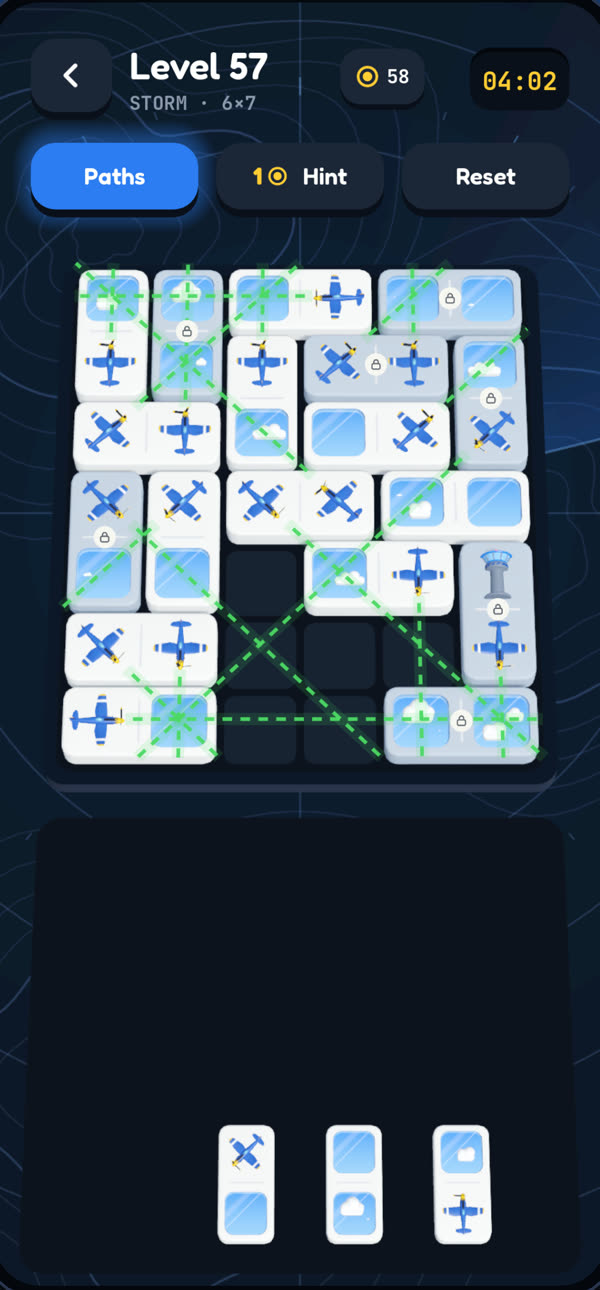
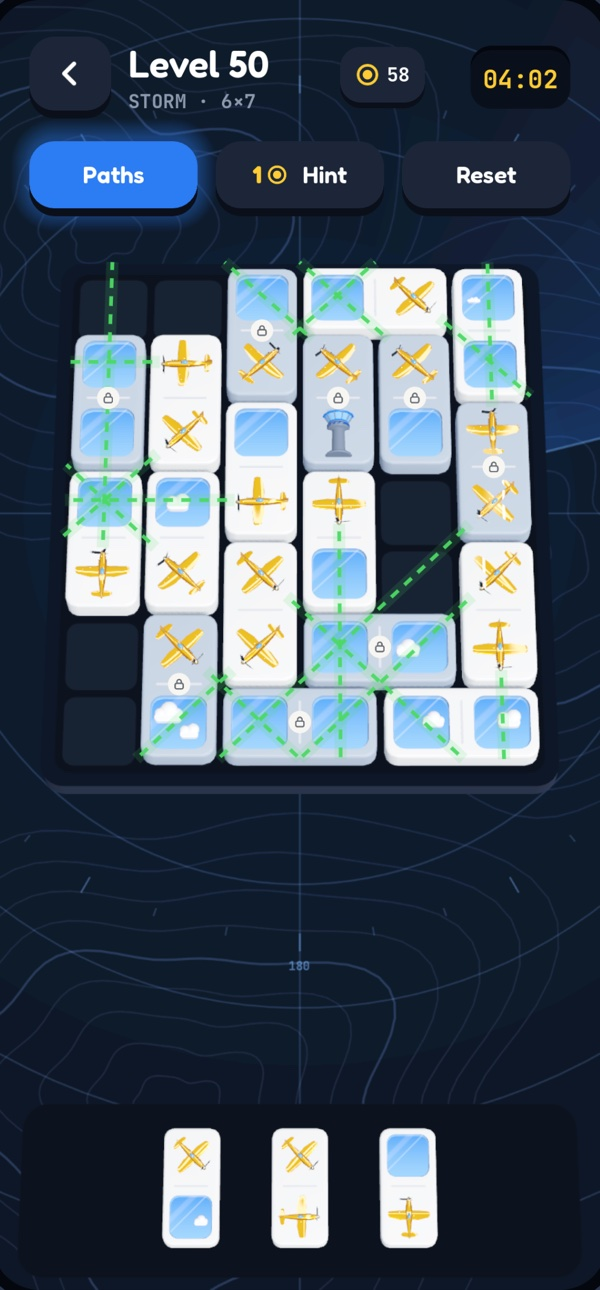
Screenshots from the 50-level build
- Storm shot is level 50; passport shows 25 of 50
- Cache-busting query on the three screenshots

diff --git a/index.html b/index.html
@@ -132,15 +132,15 @@
     <p class="screens-lede">Six tiers of airspace, from a tiny 4×4 tower to a 6×7 storm. Every landing gets a boarding pass, every level a visa, and stars unlock new planes and skies in the Hangar.</p>
     <ul>
       <li>
-        <img src="media/03_storm.jpg" width="600" height="1290" loading="lazy" alt="Level 57, Storm, a full 6 by 7 board with every path shown in green">
+        <img src="media/03_storm.jpg?v=2" width="600" height="1290" loading="lazy" alt="Level 50, Storm, a full 6 by 7 board with every path shown in green">
         <p>Storm, 6×7: the last airspace</p>
       </li>
       <li>
-        <img src="media/04_win.jpg" width="600" height="1290" loading="lazy" alt="A boarding pass stamped Arrived with three gold stars and a rank of S++">
+        <img src="media/04_win.jpg?v=2" width="600" height="1290" loading="lazy" alt="A boarding pass stamped Arrived with three gold stars and a rank of S++">
         <p>A boarding pass for every landing</p>
       </li>
       <li>
-        <img src="media/05_passport.jpg" width="600" height="1290" loading="lazy" alt="The passport open at the Corridor page, with visa stamps for the levels flown so far">
+        <img src="media/05_passport.jpg?v=2" width="600" height="1290" loading="lazy" alt="The passport open at the Corridor page, with visa stamps for the levels flown so far">
         <p>Fill your passport, one visa at a time</p>
       </li>
     </ul>
